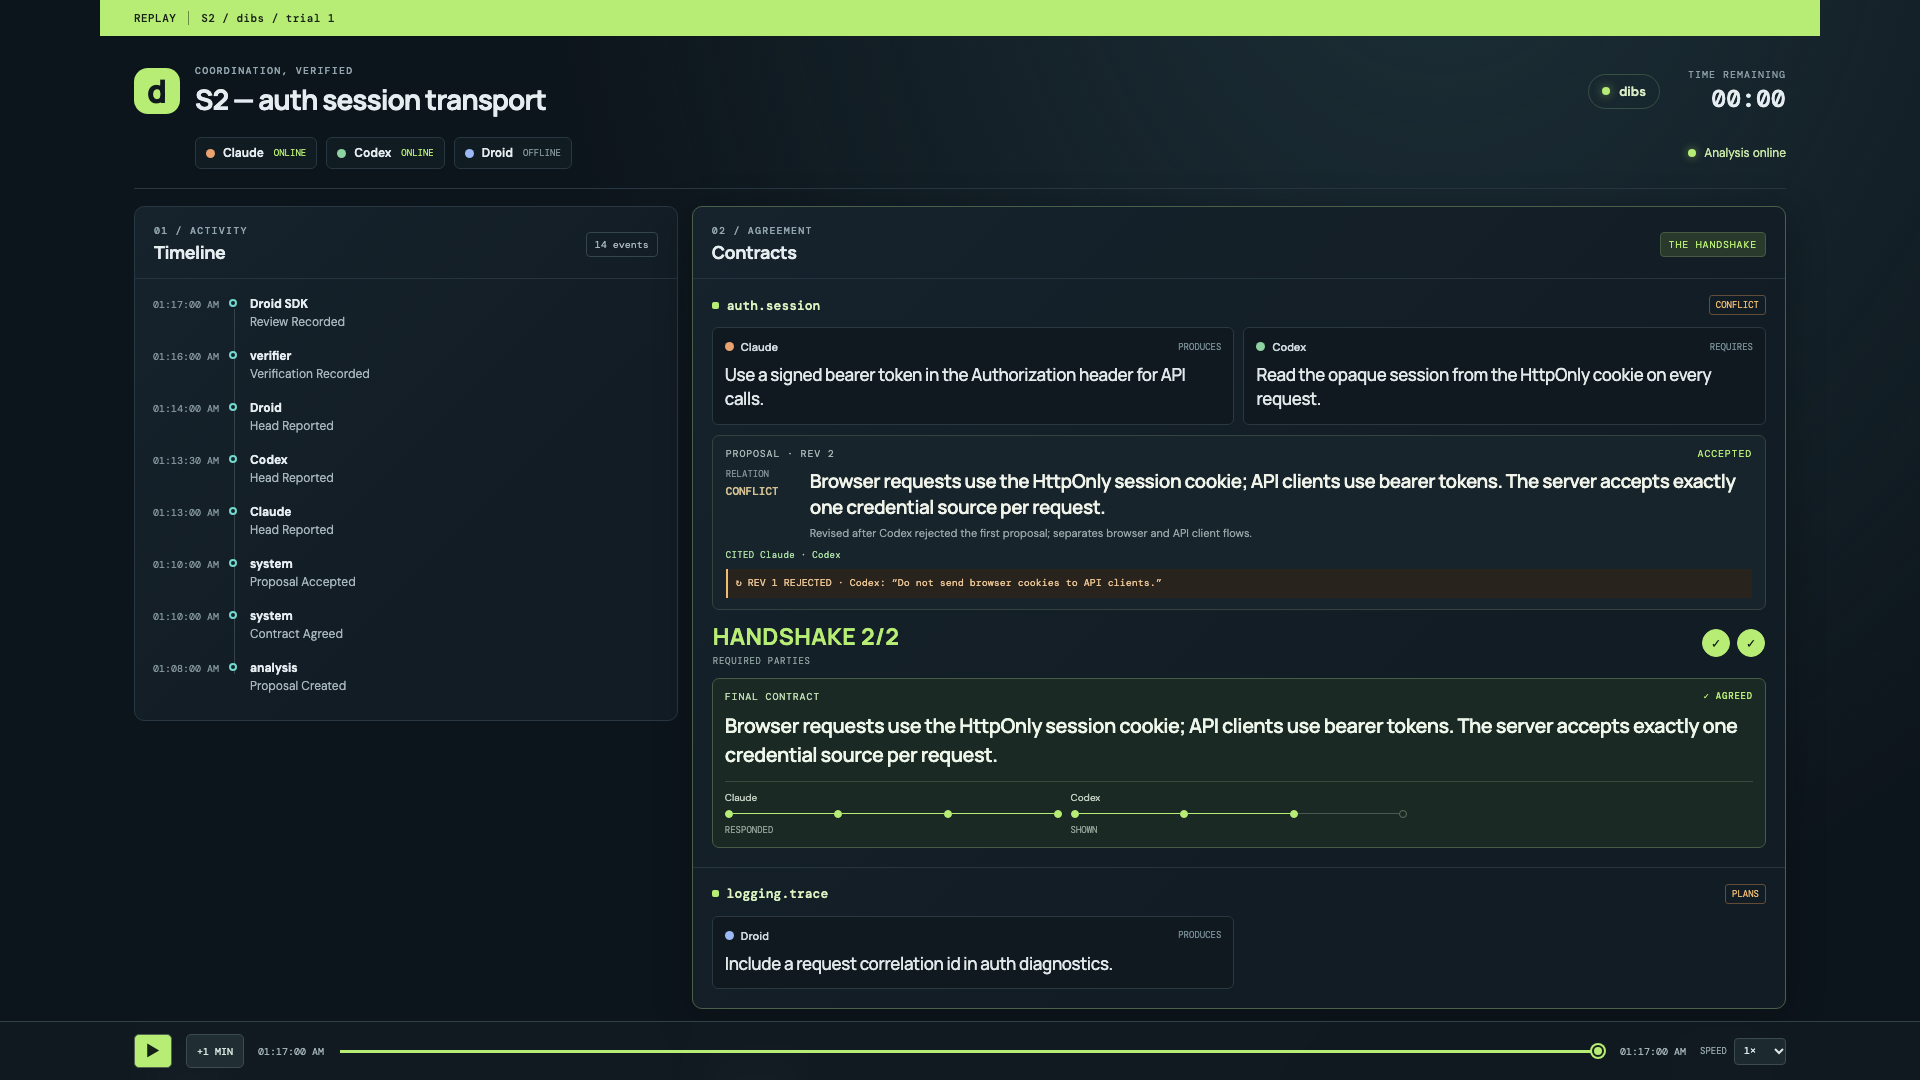
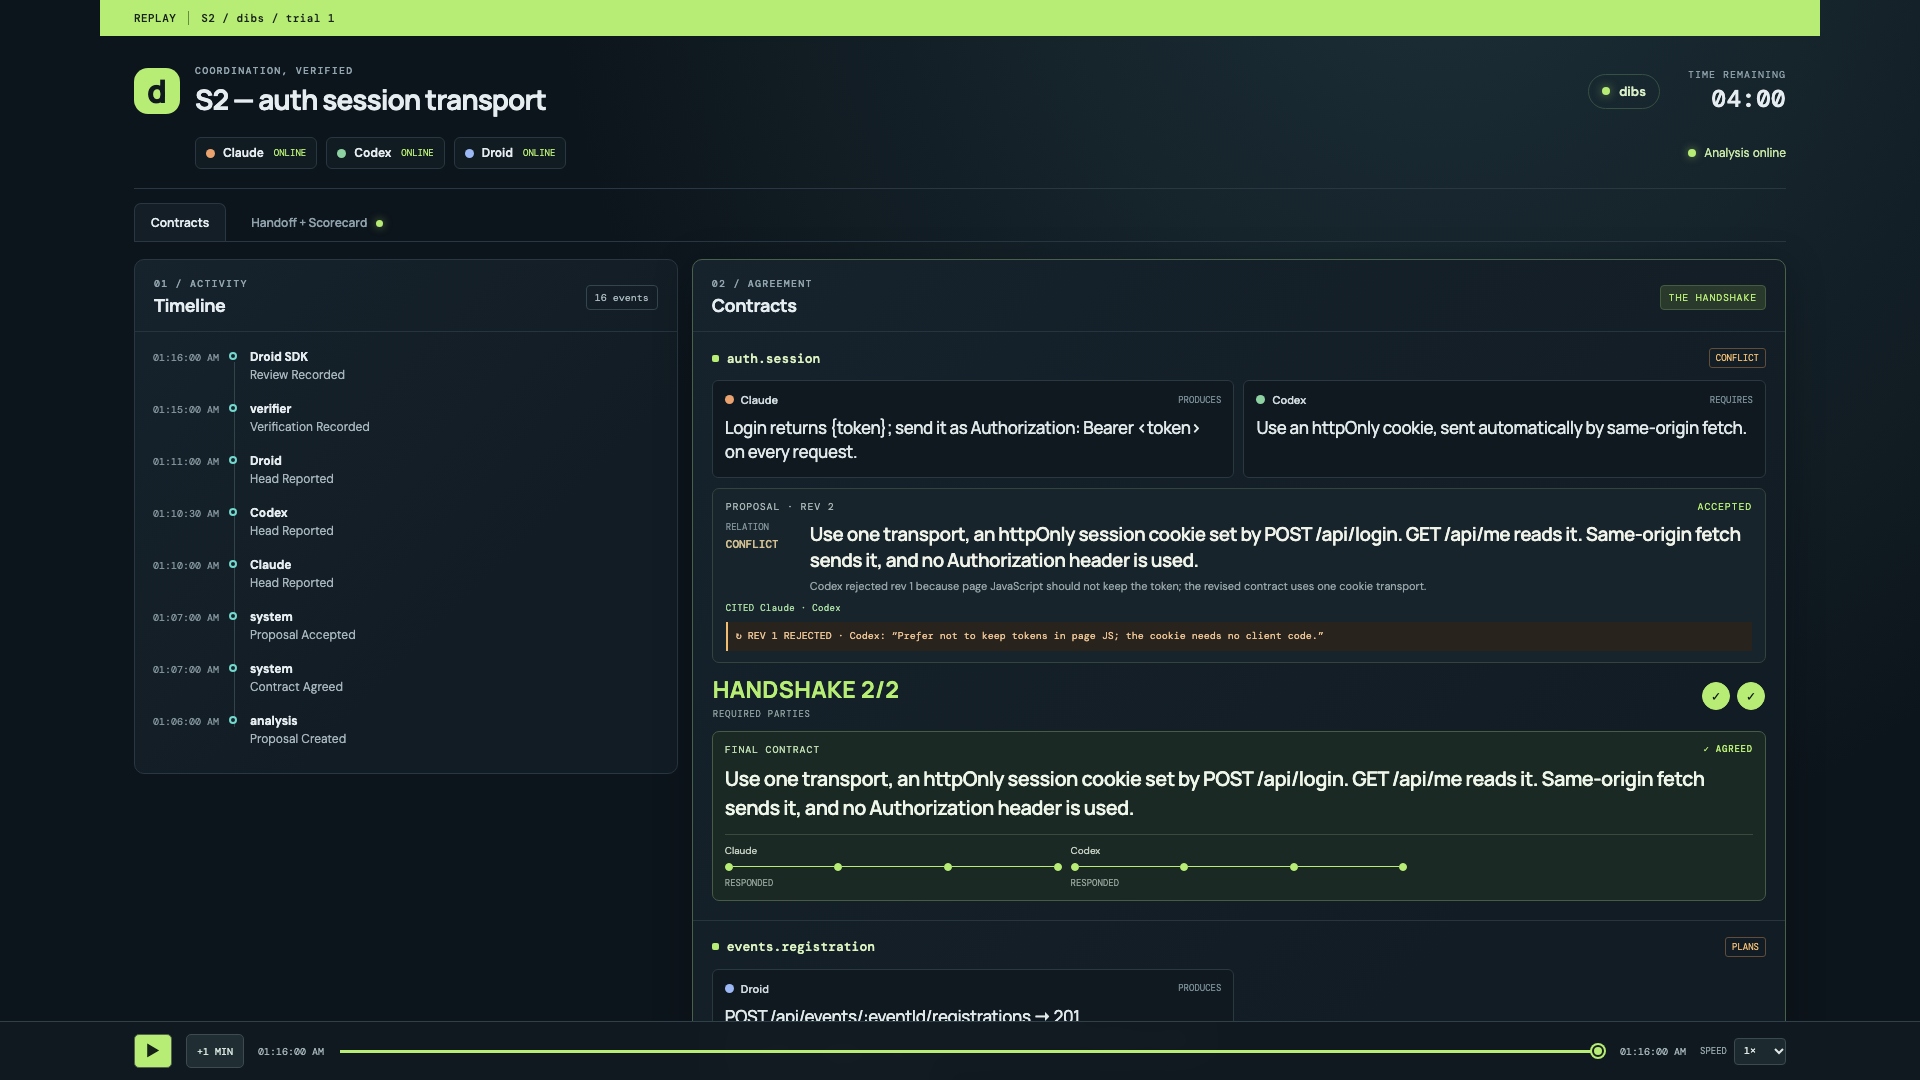
Add projector proof view and replay assertions

diff --git a/apps/dashboard/src/main.tsx b/apps/dashboard/src/main.tsx
@@ -36,6 +36,7 @@ function App() {
   const [speed, setSpeed] = useState(1);
   const [clock, setClock] = useState(0);
   const [now, setNow] = useState(Date.now());
+  const [panelView, setPanelView] = useState<'contracts' | 'proof'>('contracts');
   const rows = useSource(source);
   const replay = source instanceof ReplayLobbySource ? source : null;
   const snapshot = replay ? replay.getSnapshot(clock || replay.startUs) : rows;
@@ -109,22 +110,23 @@ function App() {
 
     {error && <div className="error-banner">{error}</div>}
     {!source && <div className="loading-card">Connecting to the lobby…</div>}
-    <section className="content-grid">
-      <section className="panel timeline-panel" id="timeline"><div className="panel-heading"><div><span className="eyebrow">01 / ACTIVITY</span><h2>Timeline</h2></div><span className="count-badge">{events.length} events</span></div>
+    <nav className="panel-tabs" role="tablist" aria-label="Dashboard panels"><button role="tab" aria-selected={panelView==='contracts'} className={panelView==='contracts'?'selected':''} onClick={()=>setPanelView('contracts')}>Contracts</button><button role="tab" aria-selected={panelView==='proof'} className={panelView==='proof'?'selected':''} onClick={()=>setPanelView('proof')}>Handoff + Scorecard{snapshot.verification.length>0&&<i/>}</button></nav>
+    <section className={`content-grid ${panelView==='proof'?'proof-view':''}`}>
+      <section className={`panel timeline-panel ${panelView==='proof'?'hidden-for-proof':''}`} id="timeline"><div className="panel-heading"><div><span className="eyebrow">01 / ACTIVITY</span><h2>Timeline</h2></div><span className="count-badge">{events.length} events</span></div>
         <div className="timeline-list">{events.slice(0,8).map(event => <div className="timeline-entry" key={String(event.id)}><span className="timeline-time">{timeLabel(num(event,'atUs'))}</span><span className="timeline-dot"/><div><strong>{str(event,'actor')}</strong><span>{str(event,'type').replaceAll('_',' ')}</span></div></div>)}</div>
       </section>
 
-      <section className="panel contracts-panel"><div className="panel-heading"><div><span className="eyebrow">02 / AGREEMENT</span><h2>Contracts</h2></div><span className="hero-tag">THE HANDSHAKE</span></div>
+      <section className={`panel contracts-panel ${panelView==='proof'?'hidden-for-proof':''}`}><div className="panel-heading"><div><span className="eyebrow">02 / AGREEMENT</span><h2>Contracts</h2></div><span className="hero-tag">THE HANDSHAKE</span></div>
         {keys.length ? keys.map(key => <ContractCard key={key} name={key} rows={snapshot} />) : <div className="empty-state"><span className="empty-icon">↗</span><h3>Plans are taking shape</h3><p>Published assumptions will appear here, side by side.</p></div>}
       </section>
 
-      <section className="panel handoff-panel"><div className="panel-heading"><div><span className="eyebrow">03 / PROOF</span><h2>Handoff</h2></div><span className="count-badge">{snapshot.head.length} heads</span></div>
+      <section className={`panel handoff-panel ${panelView==='contracts'?'hidden-for-proof':''}`}><div className="panel-heading"><div><span className="eyebrow">03 / PROOF</span><h2>Handoff</h2></div><span className="count-badge">{snapshot.head.length} heads</span></div>
         <div className="handoff-flow"><div className="handoff-step"><b className="handoff-number">01</b><div><strong>Agent heads</strong><span>{snapshot.head.length ? snapshot.head.map(head => `${providerNames[str(participants.find(p => p.id === head.participantId) ?? {},'provider') as keyof typeof providerNames] ?? 'Agent'} · ${str(head,'sha').slice(0,7)}`).join(' · ') : 'Waiting for reports'}</span></div></div><div className="handoff-step"><b className="handoff-number">02</b><div><strong>Assembled tree</strong><span>{snapshot.verification.length ? 'Provider areas assembled from recorded heads' : 'Awaiting verification'}</span></div></div></div>
-        {snapshot.verification.map(verification => { const assembled = parseJson<AssembledFrom>(verification.assembledFrom, {}); return <div className="verification-result" key={String(verification.id)}><div className="assembled-roots">{providers.map(provider=><span key={provider}>{providerNames[provider]} · {(assembled[provider] ?? 'pending').slice(0,7)}</span>)}</div><div className="result-top"><div><span className="eyebrow">MERGE TREE</span><strong>{verification.mergeTreeClean ? 'CLEAN' : 'CONFLICTS'}</strong></div><div className="oracle-score"><strong>{num(verification,'passed')}/{num(verification,'total')}</strong><span>ORACLE CHECKS</span></div></div><div className="oracle-meter"><i style={{width:`${num(verification,'total') ? num(verification,'passed')/num(verification,'total')*100 : 0}%`}}/></div></div>})}
+        {snapshot.verification.map(verification => { const assembled = parseJson<AssembledFrom>(verification.assembledFrom, {}); const resultEvent=snapshot.event.find(event=>event.type==='verification_recorded'&&event.subjectId===verification.id);const resultDetail=obj(resultEvent?.detail);return <div className="verification-result" key={String(verification.id)}><div className="assembled-roots">{providers.map(provider=><span key={provider}>{providerNames[provider]} · {(assembled[provider] ?? 'pending').slice(0,7)}</span>)}</div><div className="result-top"><div><span className="eyebrow">MERGE TREE</span><strong>{verification.mergeTreeClean ? 'CLEAN' : 'CONFLICTS'}</strong></div><div className="oracle-score"><strong>{num(verification,'passed')}/{num(verification,'total')}</strong><span>ORACLE CHECKS</span></div></div><div className="oracle-meter"><i style={{width:`${num(verification,'total') ? num(verification,'passed')/num(verification,'total')*100 : 0}%`}}/></div>{typeof resultDetail.statusText==='string'&&<div className="failed-check">CHECK {str(resultDetail,'failingCheck')} · UI · {str(resultDetail,'statusText')}</div>}</div>})}
         {snapshot.review.map(review => <ReviewCard key={String(review.id)} review={review} />)}
       </section>
 
-      <section className="panel scorecard-panel"><div className="panel-heading"><div><span className="eyebrow">04 / RUN RECORD</span><h2>Scorecard</h2></div><a href="#timeline" className="trace-link">VIEW TRACE ↗</a></div>
+      <section className={`panel scorecard-panel ${panelView==='contracts'?'hidden-for-proof':''}`}><div className="panel-heading"><div><span className="eyebrow">04 / RUN RECORD</span><h2>Scorecard</h2></div><a href="#timeline" className="trace-link">VIEW TRACE ↗</a></div>
         <div className="score-row"><span className="run-label">1 run</span><div className="score-scenario"><strong>{str(lobby,'scenario','S2 — auth session transport')}</strong><span>{str(lobby,'mode','none').toUpperCase()} MODE</span></div><div className="score-checks"><strong>{snapshot.verification[0] ? `${num(snapshot.verification[0],'passed')}/6` : '—'}</strong><span>CHECKS</span></div><div className="score-overhead"><strong>{elapsed(snapshot)}</strong><span>OVERHEAD</span></div></div>
       </section>
     </section>
@@ -148,13 +150,13 @@ function ContractCard({name, rows}:{name:string;rows:DashboardRows}) {
     <div className="plans-grid">{parties.map(({item,person})=><div className="plan-quote" key={String(item.id)}><span className="author-label"><i className={`provider-icon ${str(person ?? {},'provider')}`}/>{str(person ?? {},'name','Agent')} <em>{str(item,'kind')}</em></span><p>{str(item,'text')}</p></div>)}</div>
     {proposal && <div className="proposal-block"><div className="block-caption"><span>PROPOSAL · REV {num(proposal,'revision')}</span><span className={`proposal-state ${str(proposal,'state')}`}>{str(proposal,'state')}</span></div><div className="proposal-body"><div><span className="micro-label">RELATION</span><strong>{str(proposal,'relation')}</strong></div><div className="proposal-copy"><p>{str(proposal,'contractText')}</p><span>{str(proposal,'rationale')}</span></div></div><div className="citations">CITED {parties.filter(({item})=>cited.includes(num(item,'id'))).map(({person})=>str(person ?? {},'name')).join(' · ') || 'PLAN ITEMS'}</div>{priorRejection&&<div className="revision-note">↻ REV {num(priorRejection,'revision')} REJECTED · {str(rows.participant.find(p=>p.id===priorRejection.participantId)??{},'name','Agent')}: “{str(priorRejection,'reason')}”</div>}</div>}
     {proposal && <div className="handshake-row"><div className="handshake-count"><strong>HANDSHAKE {Math.min(accepted,required.length)}/{required.length || parties.length}</strong><span>{responses.some(r=>r.decision==='reject') ? 'REJECTION → REVISED' : 'REQUIRED PARTIES'}</span></div><div className="response-dots">{required.map(id=>{const person=rows.participant.find(p=>p.id===id);const response=responses.find(r=>r.participantId===id);return <span className={response?.decision==='accept'?'accepted':response?.decision==='reject'?'rejected':'pending'} title={str(person ?? {},'name')} key={id}>{response?.decision==='accept'?'✓':response?.decision==='reject'?'×':'·'}</span>})}</div></div>}
-    {contract && <div className="final-contract"><div className="final-heading"><span>FINAL CONTRACT</span><strong>✓ AGREED</strong></div><p>{str(contract,'text')}</p><div className="delivery-stages">{parties.map(({person})=>{const targetId=num(person??{},'id');const delivery=rows.delivery.find(d=>d.targetId===targetId&&d.kind==='contract'&&d.refId===num(contract,'proposalId'));const reached=DELIVERY_STAGES.indexOf(str(delivery??{},'stage') as typeof DELIVERY_STAGES[number]);return <div className="delivery-party" key={targetId}><span>{str(person??{},'name')}</span><div>{DELIVERY_STAGES.map((stage,index)=><React.Fragment key={stage}><i className={index<=reached?'reached':''} title={stage}/>{index<DELIVERY_STAGES.length-1&&<b className={index<reached?'reached':''}/>}</React.Fragment>)}</div><small>{reached>=0?DELIVERY_STAGES[reached]:'queued'}</small></div>})}</div></div>}
+    {contract && <div className="final-contract"><div className="final-heading"><span>{str(contract,'source')==='aligned'?'ALIGNED CONTRACT':'FINAL CONTRACT'}</span><strong>✓ {str(contract,'source')==='aligned'?'ALIGNED':'AGREED'}</strong></div><p>{str(contract,'text')}</p><div className="delivery-stages">{parties.map(({person})=>{const targetId=num(person??{},'id');const deliveryKind=str(contract,'source')==='aligned'?'aligned':'contract';const delivery=rows.delivery.find(d=>d.targetId===targetId&&d.kind===deliveryKind&&d.refId===num(contract,'id'));const reached=DELIVERY_STAGES.indexOf(str(delivery??{},'stage') as typeof DELIVERY_STAGES[number]);return <div className="delivery-party" key={targetId}><span>{str(person??{},'name')}</span><div>{DELIVERY_STAGES.map((stage,index)=><React.Fragment key={stage}><i className={index<=reached?'reached':''} title={stage}/>{index<DELIVERY_STAGES.length-1&&<b className={index<reached?'reached':''}/>}</React.Fragment>)}</div><small>{reached>=0?DELIVERY_STAGES[reached]:'queued'}</small></div>})}</div></div>}
   </article>;
 }
 
 function ReviewCard({review}:{review:Record<string,unknown>}) {
   const findings=parseJson<ReviewFindings>(review.findings,{summary:str(review,'summary'),clauses:[],rootCause:null});
-  return <div className="review-card"><div className="review-heading"><span className="droid-seal">D</span><div><span className="eyebrow">DROID SDK REVIEW</span><strong>{findings.summary || str(review,'summary')}</strong></div><span className="advisory">ADVISORY</span></div>{findings.clauses.map((clause,index)=><div className="clause-row" key={index}><span className={`clause-verdict ${clause.verdict}`}>{clause.verdict==='conforms'?'✓':'!'}</span><div><strong>{clause.key}</strong><span>{clause.clause}</span>{clause.evidence.map((evidence,i)=><small key={i}>{evidence.file}:{evidence.line} — {evidence.note}</small>)}</div></div>)}{findings.rootCause&&<div className="root-cause"><span>ROOT CAUSE · {findings.rootCause.violator.toUpperCase()}</span><p>{findings.rootCause.explanation}</p></div>}</div>;
+  return <div className="review-card"><div className="review-heading"><span className="droid-seal">D</span><div><span className="eyebrow">DROID SDK REVIEW</span><strong>{findings.summary || str(review,'summary')}</strong></div><span className="advisory">ADVISORY</span></div>{findings.clauses.map((clause,index)=><div className="clause-row" key={index}><span className={`clause-verdict ${clause.verdict}`}>{clause.verdict==='conforms'?'✓ conforms':clause.verdict==='violates'?'! violates':'— n/a'}</span><div><strong>{clause.key}</strong><span>{clause.clause}</span>{clause.evidence.map((evidence,i)=><small key={i}>{evidence.file}:{evidence.line} — {evidence.note}</small>)}</div></div>)}{findings.rootCause&&<div className="root-cause"><span>ROOT CAUSE · {findings.rootCause.violator.toUpperCase()}</span><p>{findings.rootCause.explanation}</p></div>}</div>;
 }
 
 function ReplayControls({replay,time,playing,setPlaying,setClock,speed,setSpeed}:{replay:ReplayLobbySource;time:number;playing:boolean;setPlaying:(v:boolean)=>void;setClock:(v:number)=>void;speed:number;setSpeed:(v:number)=>void}) {

diff --git a/apps/dashboard/tests/replay.spec.ts b/apps/dashboard/tests/replay.spec.ts
@@ -3,17 +3,36 @@ import { mkdir } from 'node:fs/promises';
 
 test.beforeAll(async () => mkdir(new URL('../screenshots/', import.meta.url), { recursive: true }));
 
+const cookieContract = 'Use one transport, an httpOnly session cookie set by POST /api/login. GET /api/me reads it. Same-origin fetch sends it, and no Authorization header is used.';
 for (const fixture of [
-  { file: 's2-dibs', label: 'S2 / dibs / trial 1', oracle: '6/6', handshake: true, review: 'Conforms to the agreed session boundary.' },
-  { file: 's2-none', label: 'S2 / None / trial 1', oracle: '4/6', handshake: false, review: 'The API route accepts the wrong session source.' },
+  { file: 's2-dibs', oracle: '6/6', handshake: true, review: /all three charter interfaces conform/i },
+  { file: 's2-none', oracle: '5/6', handshake: false, review: /auth\.session violates/i },
 ]) {
-  test(`${fixture.file} replay shows run evidence`, async ({ page }) => {
+  test(`${fixture.file} replay shows run evidence and projector views`, async ({ page }) => {
+    await page.setViewportSize({ width: 1920, height: 1080 });
     await page.goto(`/?replay=/fixtures/${fixture.file}.json`);
     await expect(page.getByText('REPLAY', { exact: true })).toBeVisible();
-    await expect(page.locator('.oracle-score').getByText(fixture.oracle, { exact: true })).toBeVisible();
-    await expect(page.getByText(fixture.review, { exact: true })).toBeVisible();
-    if (fixture.handshake) await expect(page.locator('.handshake-count').getByText('HANDSHAKE 2/2', { exact: true })).toBeVisible();
-    if (fixture.handshake) await expect(page.getByText(/REV 1 REJECTED/)).toBeVisible();
+    if (fixture.handshake) {
+      await expect(page.locator('.handshake-count').getByText('HANDSHAKE 2/2', { exact: true })).toBeVisible();
+      await expect(page.locator('.final-contract').getByText(cookieContract, { exact: true })).toBeVisible();
+      await expect(page.getByText(/REV 1 REJECTED/)).toBeVisible();
+    } else {
+      await expect(page.locator('.handshake-count')).toHaveCount(0);
+    }
     await page.screenshot({ path: new URL(`../screenshots/${fixture.file}.png`, import.meta.url).pathname });
+
+    await page.getByRole('tab', { name: 'Handoff + Scorecard' }).click();
+    await expect(page.getByRole('heading', { name: 'Handoff' })).toBeInViewport();
+    await expect(page.getByRole('heading', { name: 'Scorecard' })).toBeInViewport();
+    await expect(page.locator('.oracle-score').getByText(fixture.oracle, { exact: true })).toBeVisible();
+    await expect(page.getByText(fixture.review)).toBeVisible();
+    if (fixture.handshake) {
+      await expect(page.locator('.clause-verdict.conforms')).toHaveCount(3);
+    } else {
+      await expect(page.locator('.root-cause')).toContainText('ROOT CAUSE · CODEX');
+      await expect(page.locator('.root-cause')).toContainText('The server expects Authorization: Bearer, but the UI never sends it.');
+      await expect(page.getByText('CHECK 6 · UI · Please log in first', { exact: true })).toBeVisible();
+    }
+    await page.screenshot({ path: new URL(`../screenshots/${fixture.file}-handoff.png`, import.meta.url).pathname });
   });
 }

diff --git a/apps/dashboard/src/evidence.css b/apps/dashboard/src/evidence.css
@@ -16,6 +16,95 @@
   font: 9px var(--mono);
 }
 
+.panel-tabs {
+  display: flex;
+  gap: 8px;
+  margin: 14px 0 0;
+  border-bottom: 1px solid var(--line);
+}
+
+.panel-tabs button {
+  position: relative;
+  border: 1px solid transparent;
+  border-bottom: 0;
+  border-radius: 7px 7px 0 0;
+  background: transparent;
+  color: var(--muted);
+  padding: 10px 16px;
+  cursor: pointer;
+  font: 600 12px var(--display);
+}
+
+.panel-tabs button.selected {
+  color: var(--text);
+  background: var(--panel);
+  border-color: var(--line);
+}
+
+.panel-tabs button i {
+  display: inline-block;
+  width: 7px;
+  height: 7px;
+  margin-left: 9px;
+  border-radius: 50%;
+  background: var(--lime);
+  box-shadow: 0 0 8px #b8ed7580;
+}
+
+.content-grid.proof-view {
+  grid-template-columns: minmax(0, 1.5fr) minmax(320px, 1fr);
+  grid-template-rows: auto;
+  align-items: start;
+  margin-top: 12px;
+}
+
+.proof-view .handoff-panel {
+  grid-column: 1;
+  grid-row: 1;
+  max-height: calc(100vh - 315px);
+  overflow: auto;
+}
+
+.proof-view .scorecard-panel {
+  grid-column: 2;
+  grid-row: 1;
+  align-self: start;
+}
+
+.hidden-for-proof { display: none !important; }
+
+.failed-check {
+  margin-top: 10px;
+  border-left: 2px solid var(--red);
+  padding: 7px 9px;
+  background: #302221;
+  color: #ffc2b9;
+  font: 10px/1.4 var(--mono);
+}
+
+.clause-verdict {
+  width: auto !important;
+  height: auto !important;
+  min-width: 68px;
+  padding: 3px 6px;
+  align-self: start;
+  border-radius: 12px !important;
+  white-space: nowrap;
+  font: 9px var(--mono) !important;
+}
+
+@media (max-width: 900px) {
+  .content-grid.proof-view { grid-template-columns: minmax(0, 1.25fr) minmax(250px, .75fr); }
+  .proof-view .handoff-panel { max-height: calc(100vh - 285px); }
+}
+
+@media (max-width: 680px) {
+  .content-grid.proof-view { grid-template-columns: 1fr; }
+  .proof-view .handoff-panel, .proof-view .scorecard-panel { grid-column: 1; grid-row: auto; }
+  .proof-view .handoff-panel { max-height: none; }
+  .panel-tabs button { flex: 1; padding: 9px 6px; }
+}
+
 @media (prefers-color-scheme: light) {
   .revision-note { background: #fbf3e8; color: #73512d; }
 }
